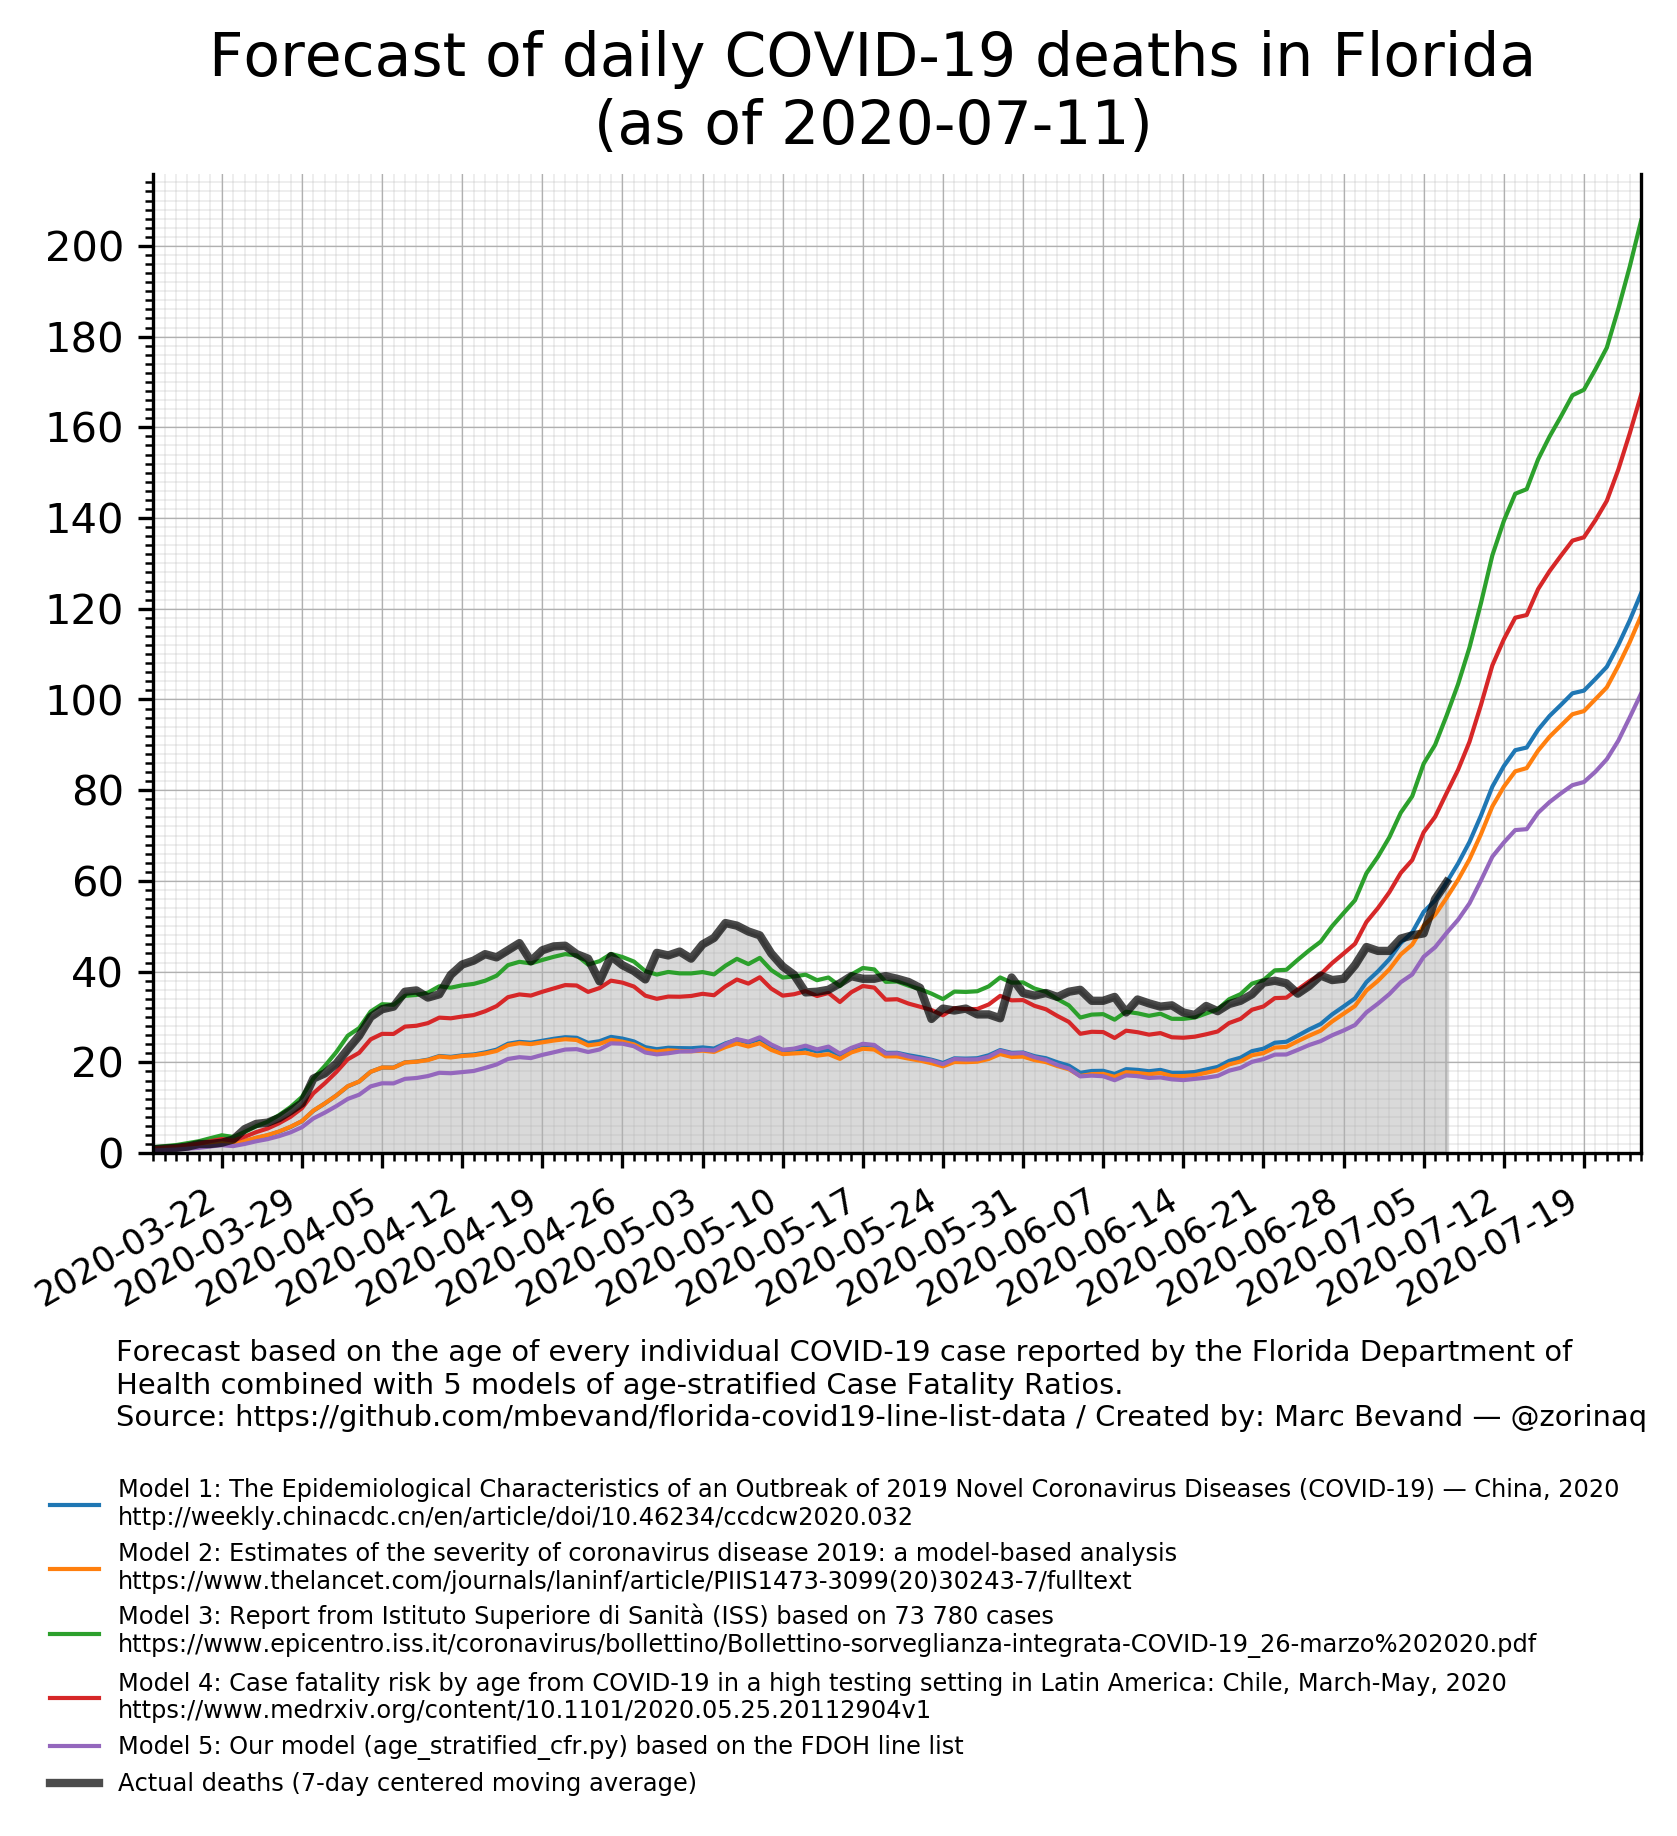
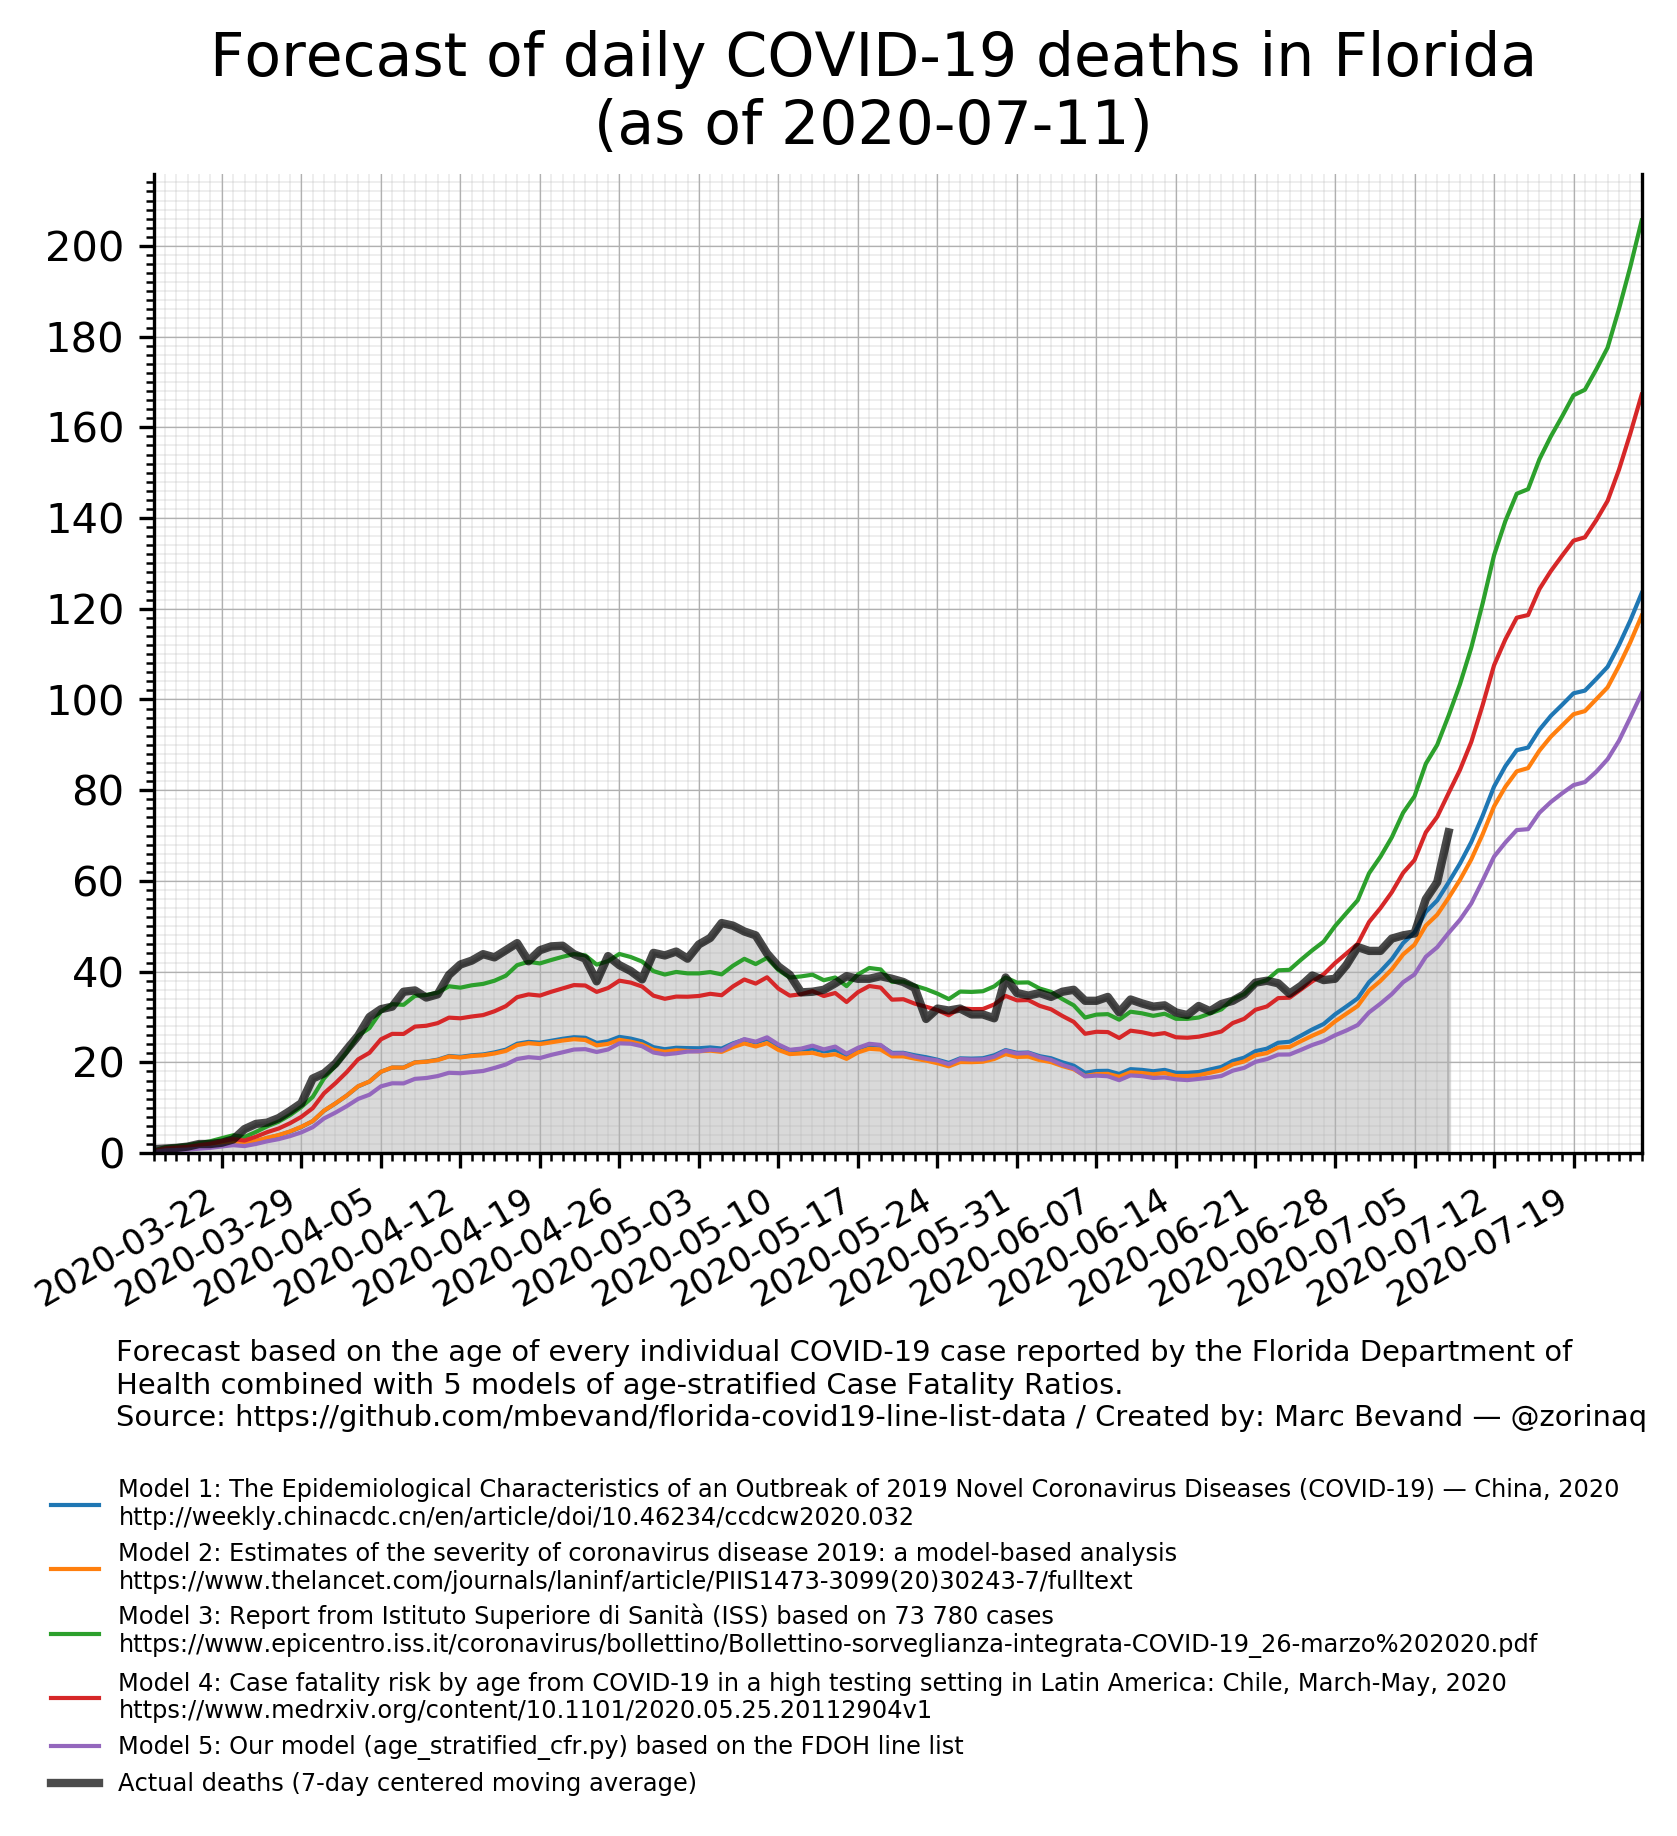
forecast was using the wrong onset-to-death time
The correct mean onset-to-death time is 18.7 days (from my Gamma distribution), not 17.8 days (from Verity)

diff --git a/forecast_deaths.py b/forecast_deaths.py
@@ -18,10 +18,8 @@ csv_url = 'https://opendata.arcgis.com/datasets/37abda537d17458bae6677b8ab75fcb9
 # Actual deaths
 csv_actual_deaths = 'https://raw.githubusercontent.com/nytimes/covid-19-data/master/us-states.csv'
 
-# Mean time (in days) from onset of symptoms to death
-# Source: Estimating the effects of nonpharmaceutical interventions on COVID-19 in Europe, Supplementary information, page 4:
-# https://static-content.springer.com/esm/art%3A10.1038%2Fs41586-020-2405-7/MediaObjects/41586_2020_2405_MOESM1_ESM.pdf
-o2d = np.round(17.8)
+# Mean time (in days) from onset of symptoms to death, calculated by gamma.py
+o2d = np.round(18.7)
 
 # Number of days to calculate the centered moving average of the chart curves
 cma_days = 7
